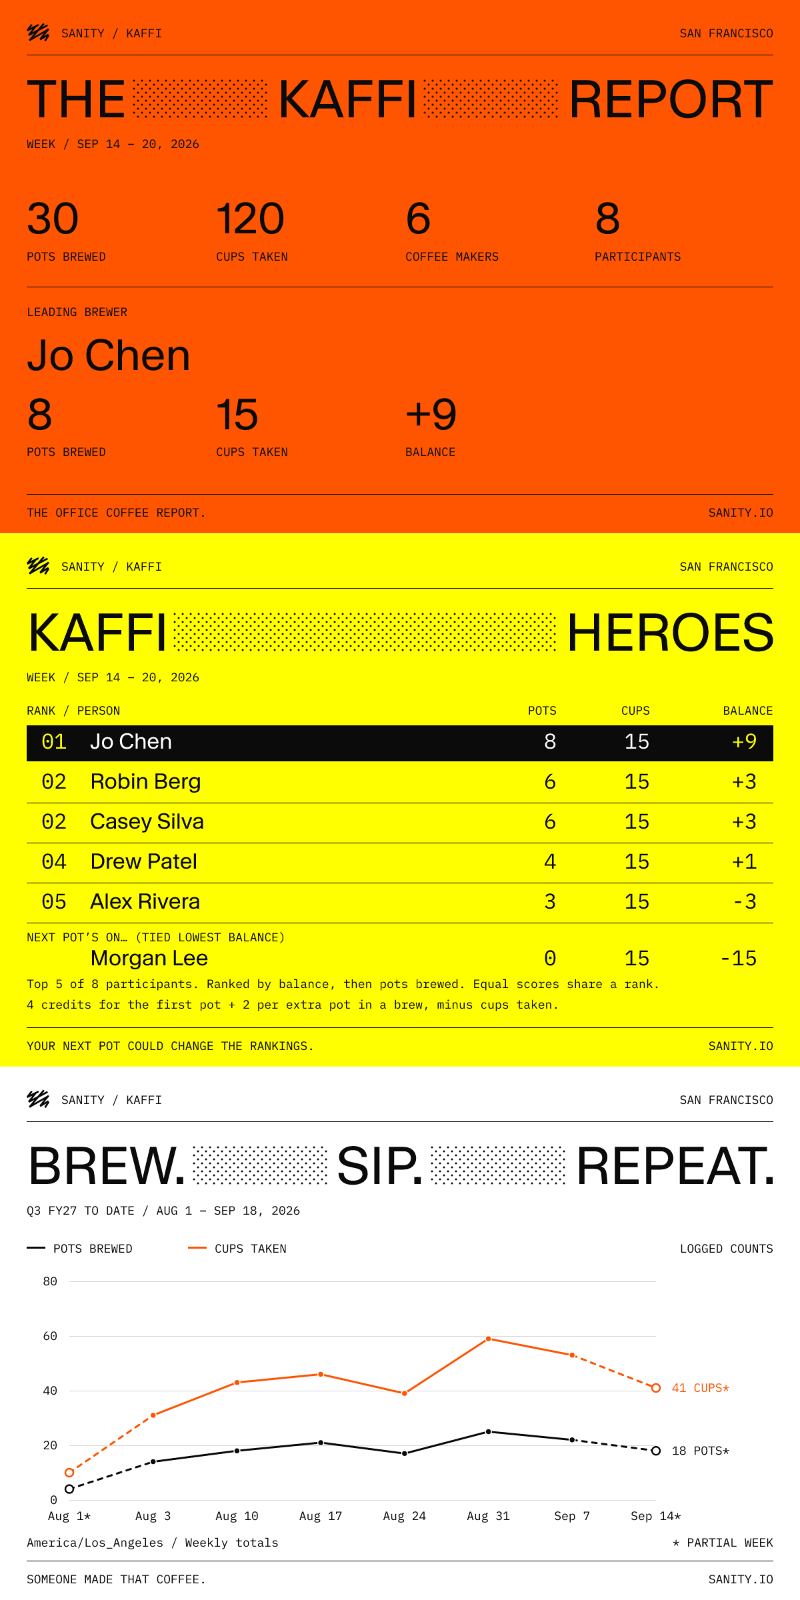
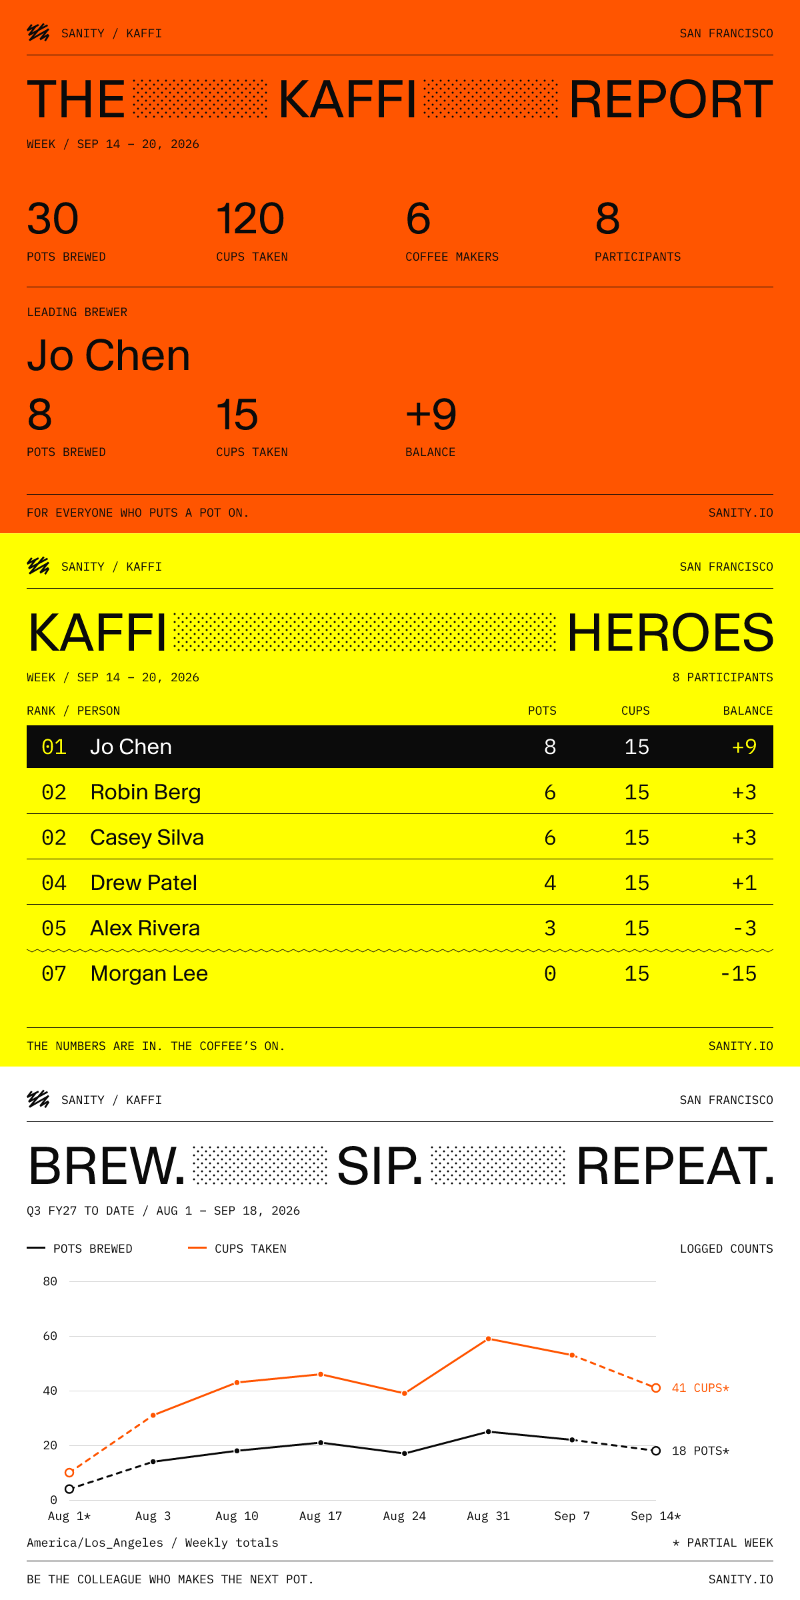
fix: show last Kaffi rank with a zigzag divider

diff --git a/apps/kaffi/reports/coffee-images.ts b/apps/kaffi/reports/coffee-images.ts
@@ -1,7 +1,6 @@
 import { readFileSync } from "node:fs";
 import { fileURLToPath } from "node:url";
 import { Resvg } from "@resvg/resvg-js";
-import { FIRST_POT_CUPS, EXTRA_POT_CUPS } from "../lib/coffee-stats.ts";
 import type { CoffeeReport } from "./report-data.ts";
 import { nextFooter } from "./report-footers.ts";
 
@@ -27,7 +26,6 @@ const symbol = readFileSync(
   "utf8",
 );
 const number = new Intl.NumberFormat("en-US");
-const BALANCE_RULE = `${FIRST_POT_CUPS} credits for the first pot + ${EXTRA_POT_CUPS} per extra pot in a brew, minus cups taken.`;
 
 function escapeXml(value: string | number) {
   return String(value)
@@ -407,11 +405,10 @@ function standingCells(
   );
 }
 
-/** Top five participants, ranked by balance, then pots. Equal scores share a rank. */
+/** Top five and last participant, ranked by balance, then pots. Ties share a rank. */
 export function renderCoffeeLeaderboard(report: CoffeeReport): Buffer {
   let rank = 1;
   const rows = report.standings
-    .slice(0, 5)
     .map((person, i) => {
       const previous = report.standings[i - 1];
       if (
@@ -419,15 +416,20 @@ export function renderCoffeeLeaderboard(report: CoffeeReport): Buffer {
         (previous.balance !== person.balance || previous.pots !== person.pots)
       )
         rank = i + 1;
-      const y = 319 + i * 60;
+      if (i >= 5 && i !== report.standings.length - 1) return "";
+      const y = 327 + Math.min(i, 5) * 68;
       return (
-        (i === 0 ? rect(40, y - 31, 1120, 54, INK) : "") +
+        (i > 5
+          ? `<path d="M40 ${y - 43} ${"l8 4 8 -4 ".repeat(70)}" fill="none" stroke="${INK}" stroke-width="1"/>`
+          : i > 1
+            ? rule(y - 43)
+            : "") +
+        (i === 0 ? rect(40, y - 39, 1120, 64, INK) : "") +
         text(String(rank).padStart(2, "0"), 62, y + 4, TYPE.body, {
           mono: true,
           color: i === 0 ? YELLOW : INK,
         }) +
-        standingCells(person, y + 4, i === 0) +
-        (i > 0 ? rule(y + 25) : "")
+        standingCells(person, y + 4, i === 0)
       );
     })
     .join("");
@@ -442,29 +444,16 @@ export function renderCoffeeLeaderboard(report: CoffeeReport): Buffer {
         text(title, x, 272, TYPE.label, { mono: true, align: "end" }),
       )
       .join("");
-  const nextBrewer = report.standings.at(-1);
-  const tied =
-    nextBrewer && report.standings.at(-2)?.balance === nextBrewer.balance;
-  const nextPot = nextBrewer
-    ? text(
-        `NEXT POT’S ON…${tied ? " (TIED LOWEST BALANCE)" : ""}`,
-        40,
-        612,
-        TYPE.label,
-        { mono: true },
-      ) + standingCells(nextBrewer, 648)
-    : "";
-  const note =
-    report.participants > 5
-      ? `Top 5 of ${report.participants} participants. `
-      : "";
   return frame(
     report,
     YELLOW,
     "KAFFI HEROES",
-    headings +
+    text(`${report.participants} PARTICIPANTS`, 1160, 222, TYPE.label, {
+      mono: true,
+      align: "end",
+    }) +
+      headings +
       rows +
-      nextPot +
       (report.participants
         ? ""
         : text(
@@ -475,15 +464,6 @@ export function renderCoffeeLeaderboard(report: CoffeeReport): Buffer {
             {
               width: 1060,
             },
-          )) +
-      text(
-        note +
-          "Ranked by balance, then pots brewed. Equal scores share a rank.",
-        40,
-        682,
-        TYPE.label,
-        { mono: true, width: 1120 },
-      ) +
-      text(BALANCE_RULE, 40, 713, TYPE.label, { mono: true, width: 1120 }),
+          )),
   );
 }

diff --git a/apps/kaffi/README.md b/apps/kaffi/README.md
@@ -151,7 +151,7 @@ apps/kaffi/
 Three separate **1200 × 800 PNGs** keep each report readable in Slack:
 
 - `renderCoffeeSummary`: totals, participation, and the highest-ranked brewer.
-- `renderCoffeeLeaderboard`: top five participants by balance, then pots. Ties share a rank. A “Next pot’s on…” row shows the last participant in that order, with a label when the lowest balance is tied.
+- `renderCoffeeLeaderboard`: top five participants and the last participant by balance, then pots. The final row keeps its actual rank and normal row spacing. A zigzag divider marks skipped participants. Ties share a rank; groups of five or fewer appear once.
 - `renderCoffeeTrend`: pots/cups lines with points on one zero-based count axis. Weekdays for a week/month, weeks for a quarter, and months for a year. Weekend activity stays in report totals, rankings, and weekly/monthly buckets. Partial weeks use open points, dashed segments, and an asterisk. These are logged counts, not pot capacity or estimated consumption.
 
 Use a weekly report for the summary and leaderboard, plus a quarter-to-date report
